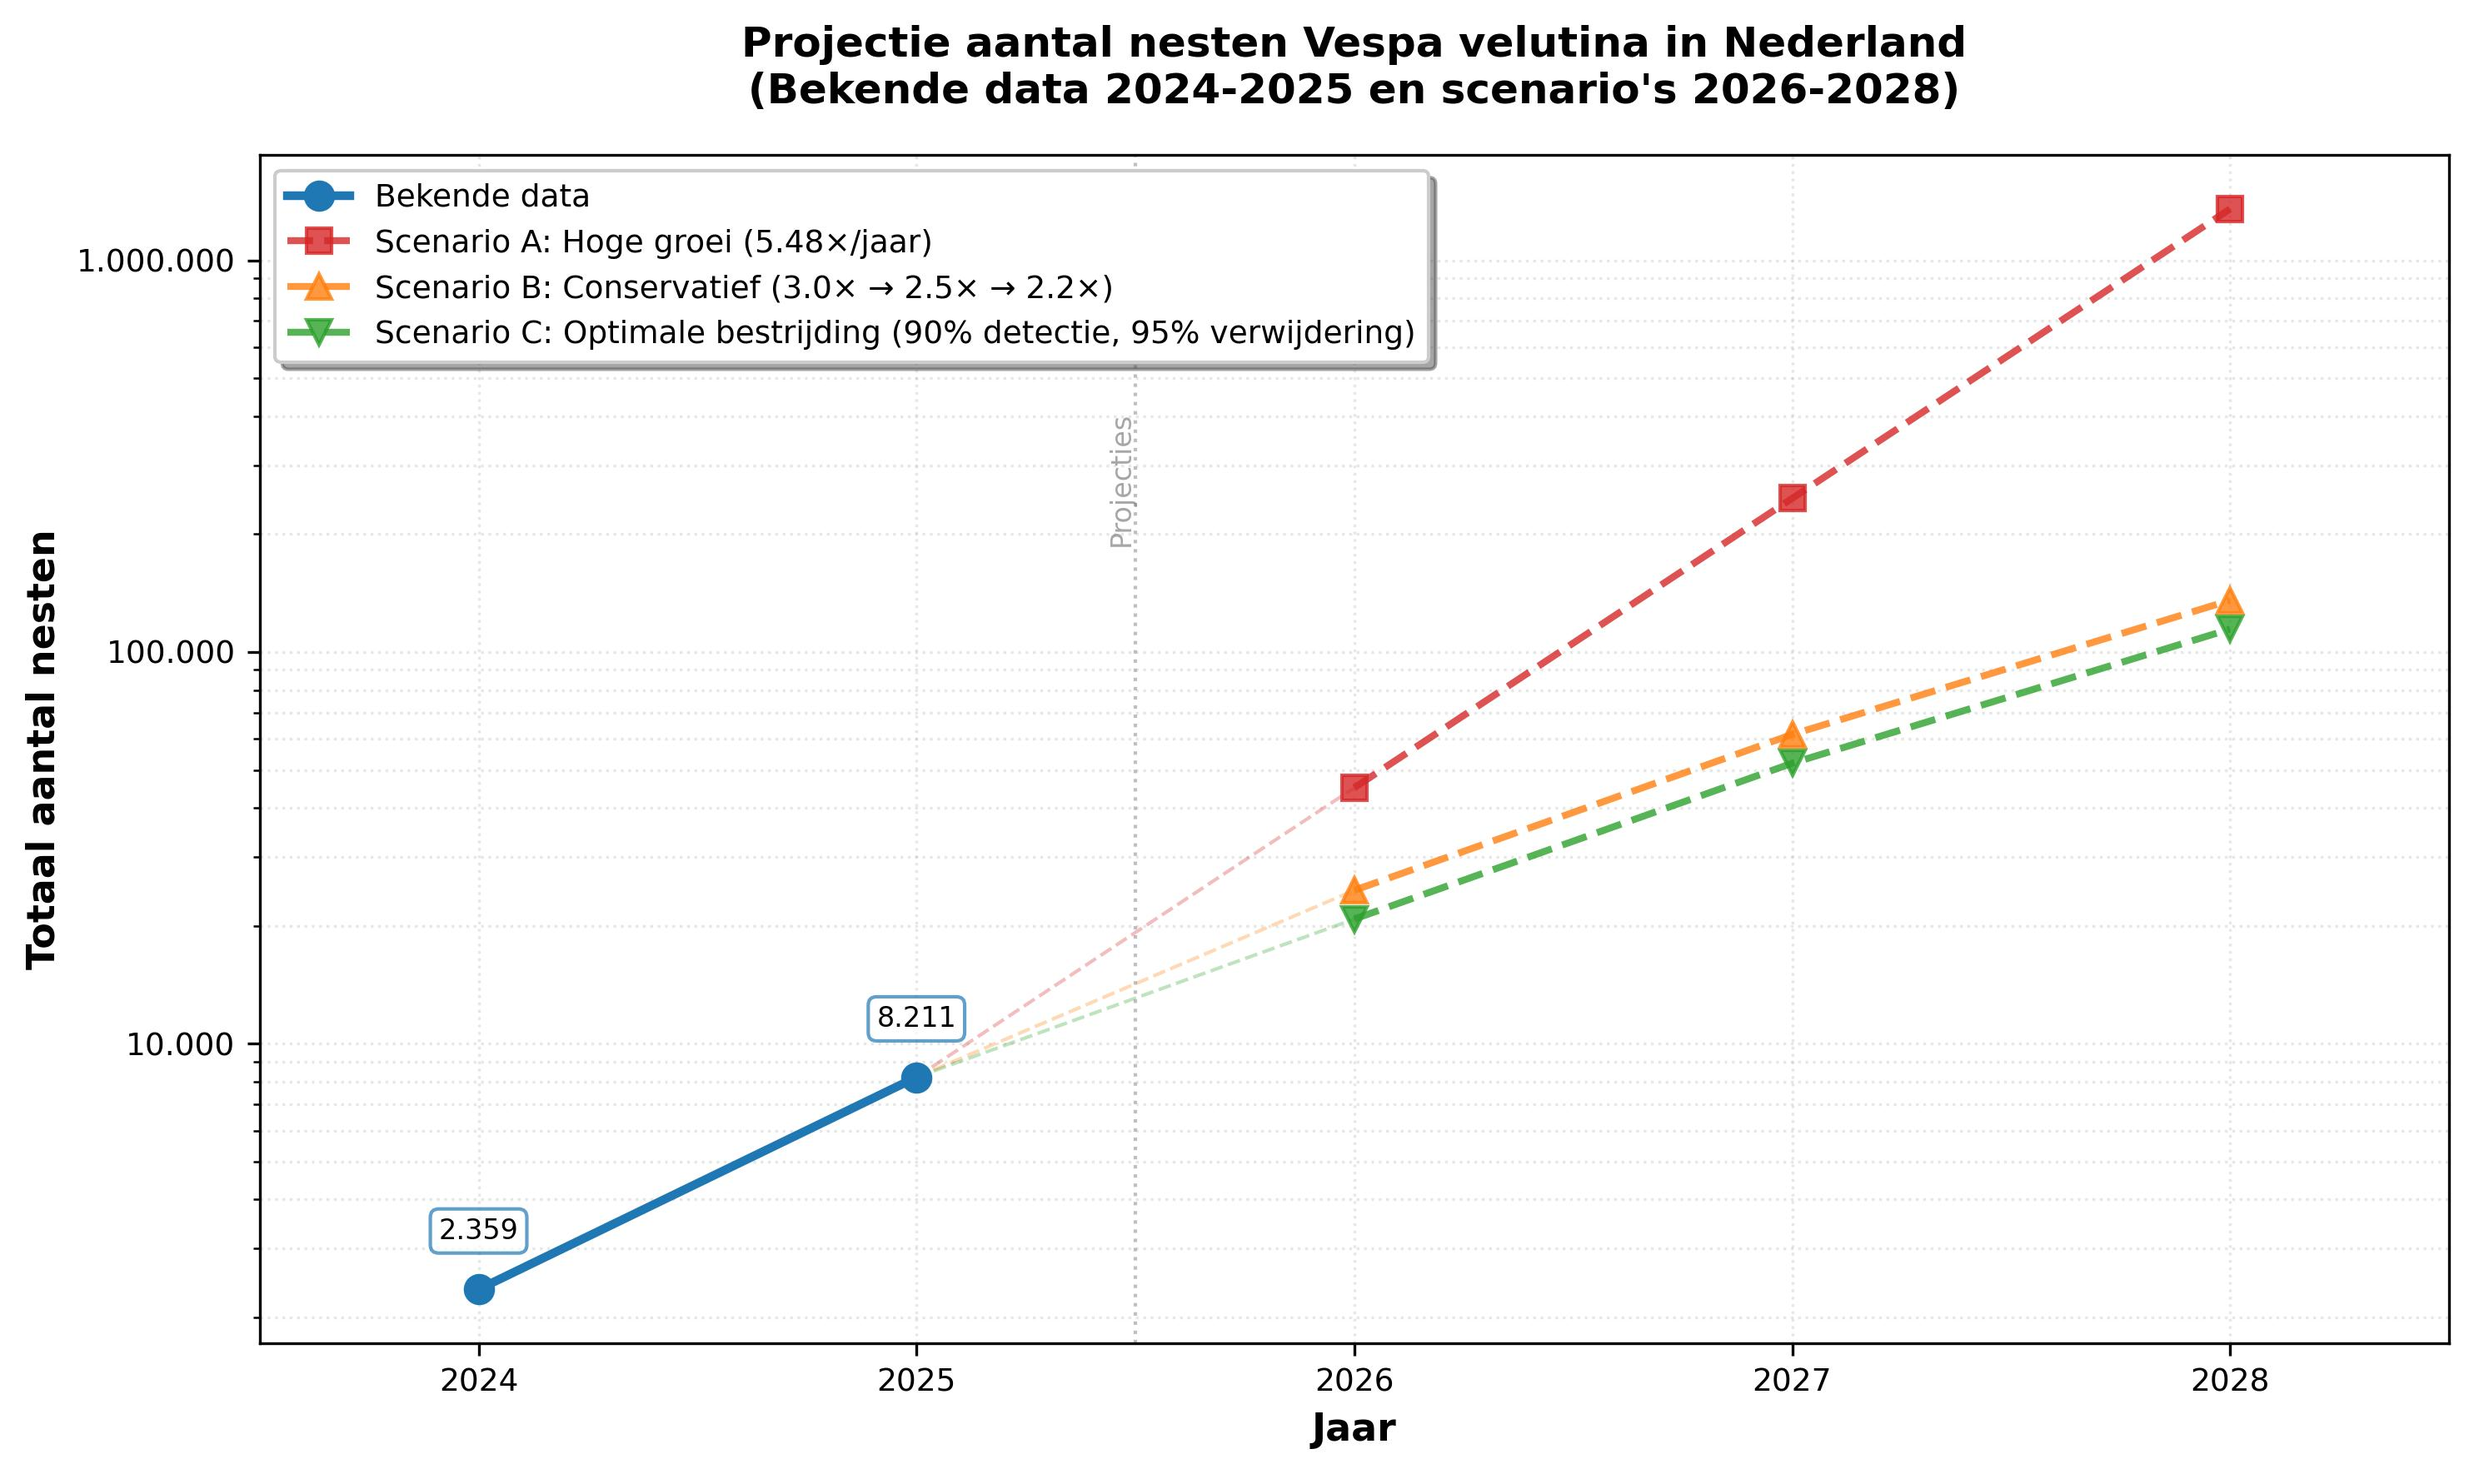
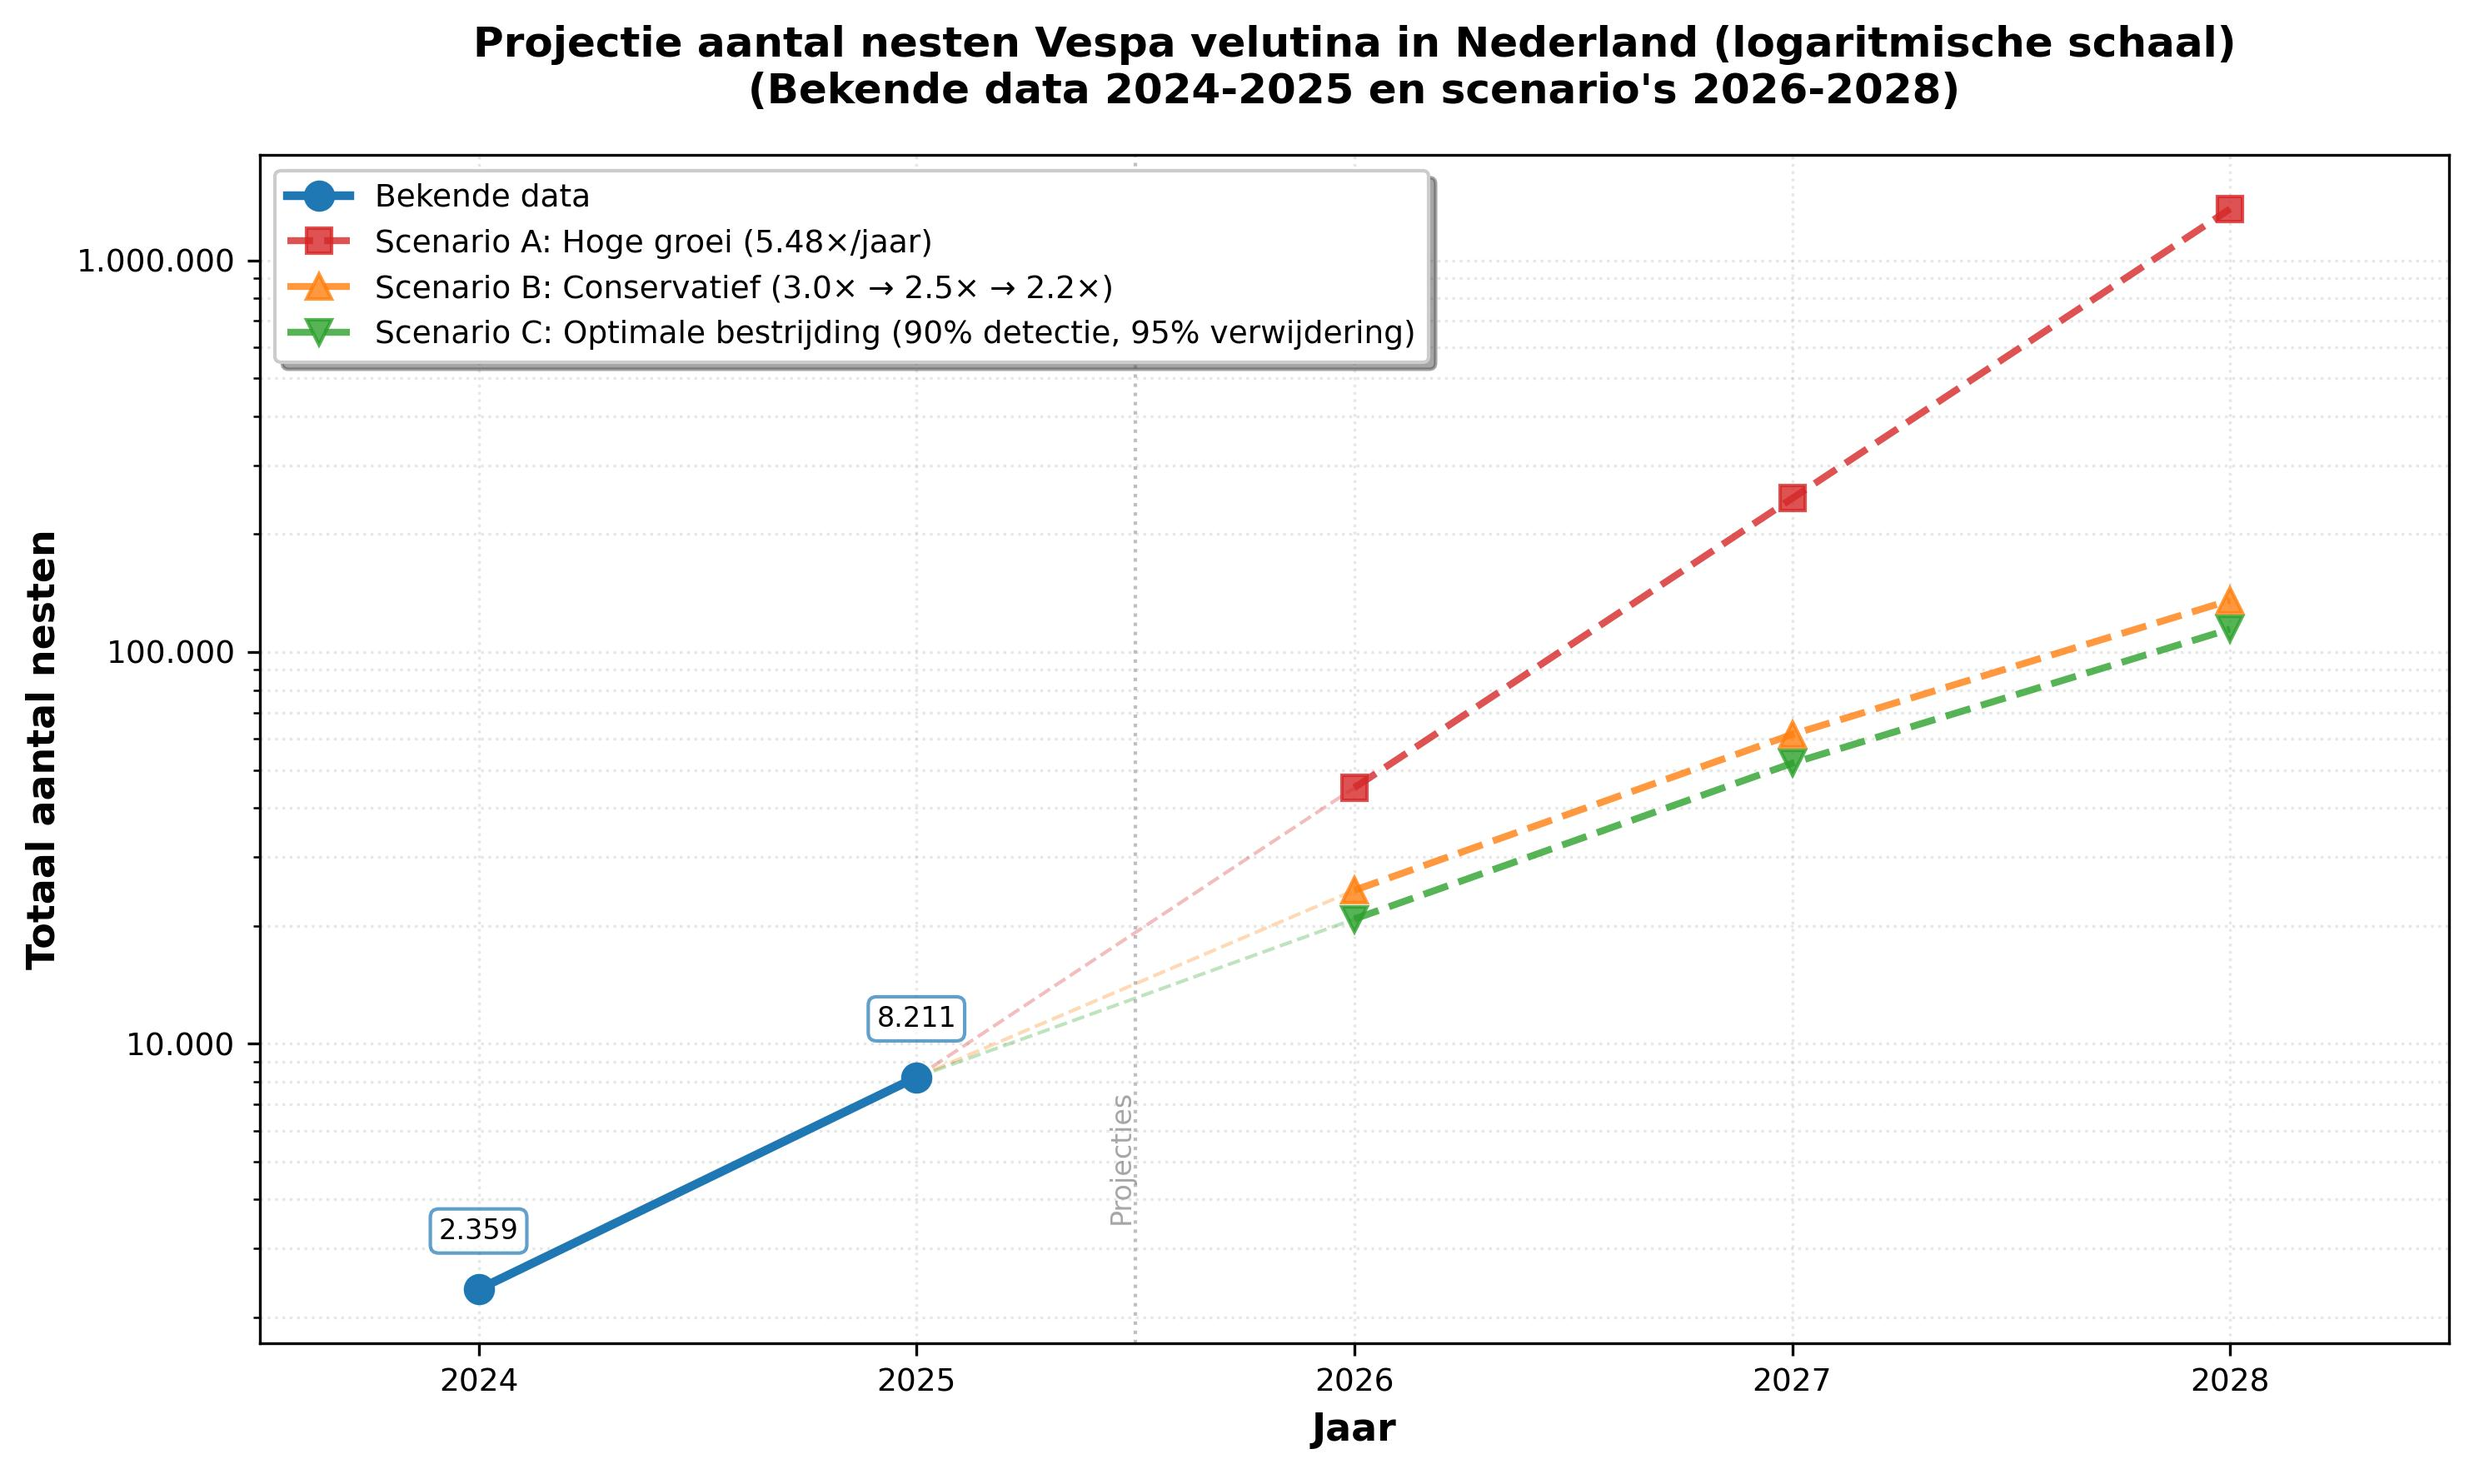
Add linear graph

Changed region(s): [[0.1859, 0.0, 0.8983, 0.0621]]

diff --git a/nederlands/scenarios_gemiste_nesten.md b/nederlands/scenarios_gemiste_nesten.md
@@ -33,7 +33,7 @@ Note: Secundaire nesten worden niet afzonderlijk gemeld op waarnemingen.nl Neste
 **Vergelijking met België** (Oost-Vlaanderen): 2021: ~50 nesten → 2023: ~1,500 nesten = **30× over 2 jaar** (≈5.48×/jaar in vroege fase)
 
 ### Analyse van gemiste nesten 2024 (op basis van reproductie en groei 2025)
-![Scenario's groei aantal nesten](https://github.com/vespCV/VespaVelutina-Impact/blob/main/images/scenarios_nesten.jpg?raw=true)
+![Scenario's groei aantal nesten](https://github.com/vespCV/VespaVelutina-Impact/blob/main/images/scenarios_nesten_linear.jpg?raw=true)
 **Aannames**:
 - Groei: 5.48× (zoals in Oost-Vlaanderen)
 - Uit ieder gemist nest komen 6 nieuwe nesten

diff --git a/nederlands/vespavelutina_nederland.md b/nederlands/vespavelutina_nederland.md
@@ -108,3 +108,4 @@ In 2024 en 2025 nesten verwijderen via professionele bestrijder. Onderzoek naar 
 |
 
 Niet opgenomen: bestrijders zonder vermelding van tarieven of bestrijders die werken met poeder (mogelijk vermelden niet alle bestrijders dit op hun site; geen van hen vermeld gebruik van zuiger).
+
